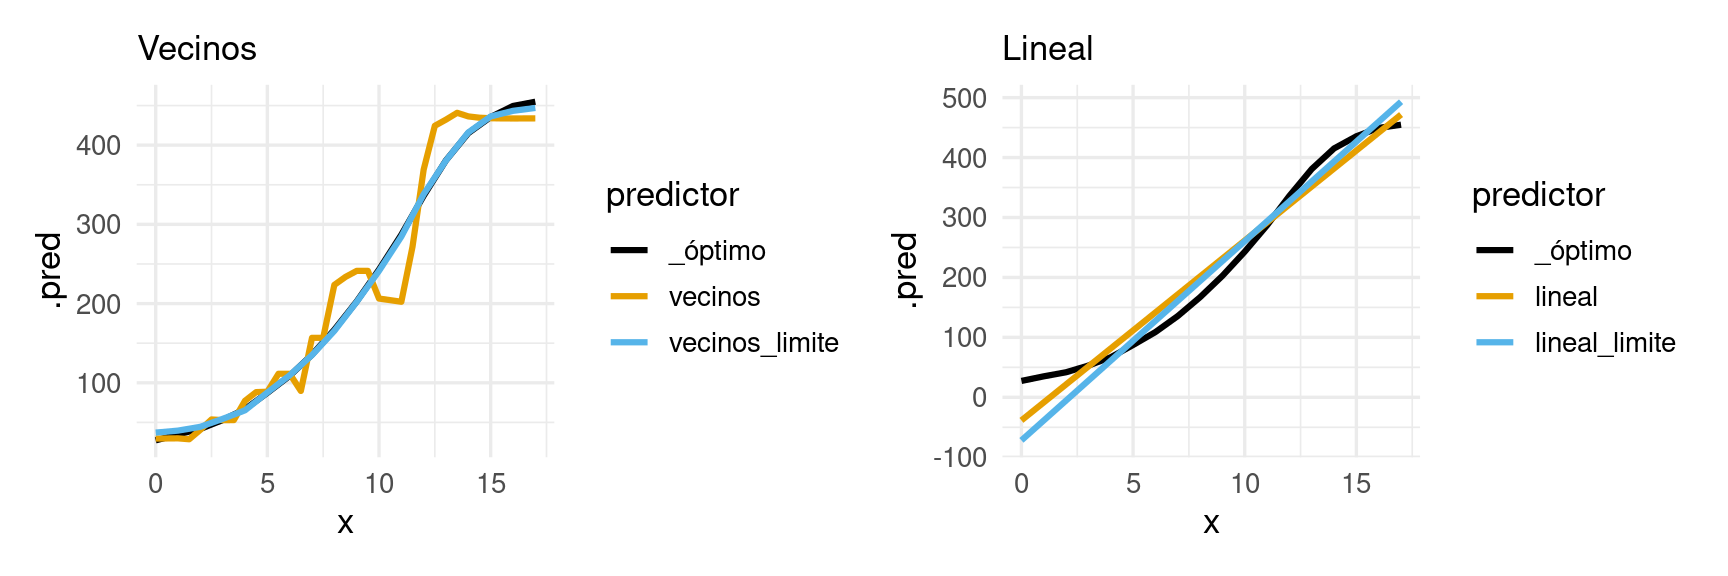
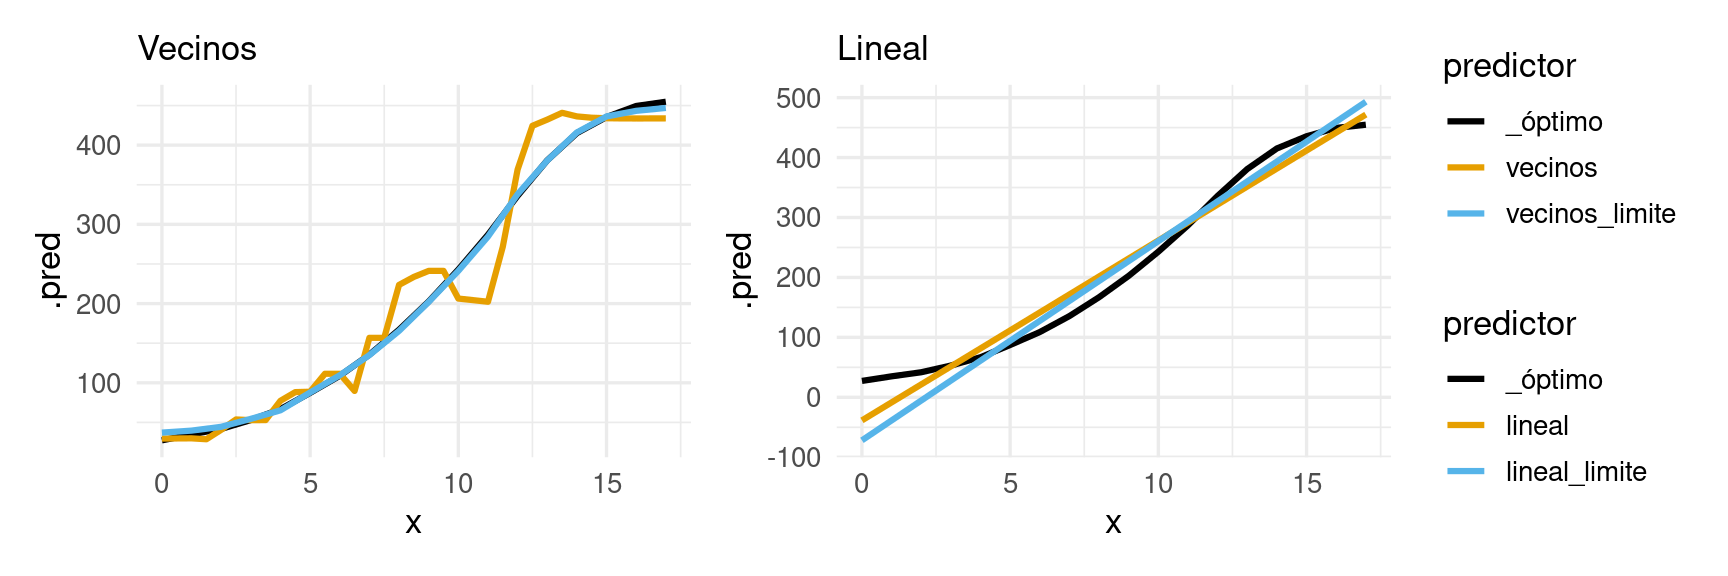
Deploying to gh-pages from @ felipegonzalez/aprendizaje-maquina-mcd-2022@fcda82e9a2af115e9a1a6d112d447e3a051d73b7 🚀

diff --git a/02-principios-supervisado.html b/02-principios-supervisado.html
@@ -2300,7 +2300,6 @@ Generalmente es una combinación de costos/beneficios del problema que tratamos,
 <p><strong>Observación</strong>: Generalmente el término variabilidad se refiere a la variación de un estimador alrededor de su valor esperado, cuando observamos sus distintas posibles estimadociones a los largo de varias muestras de entrenamiento. Podemos descomponer el segundo término de arriba como:</p>
 <p><span class="math display">\[ f_{\lim}(\mathbf{x}) - \hat{f_{\mathcal{L}}}(\mathbf{x}) = f_{\lim}(\mathbf{x}) - E(\hat{f_{\mathcal{L}}}(\mathbf{x})) + E(\hat{f_{\mathcal{L}}}(\mathbf{x})) - \hat{f_{\mathcal{L}}}(\mathbf{x})\]</span></p>
 <p>donde el valor esperado es sobre todas las muestras de entrenamiento de un tamaño fijo <span class="math inline">\(n\)</span> que podríamos obtener. El segundo término puede llamarse variabilidad, mientras que el primero es el sesgo que obtenemos al usar una muestra <span class="math inline">\(n\)</span> finita.</p>
-<p>En esta versión, una parte del sesgo puede deberse a que nuestro método no tiene capacidad suficiente para encontrar la forma correcta de <span class="math inline">\(f^*(x)\)</span>, incluso con datos completos (el primer término del sesgo), mientras que el segundo término del sesgo indica que con el tamaño de muestra <span class="math inline">\(n\)</span> que tenemos, su capacidad no se puede alcanzar.</p>
 </section>
 <section id="ejemplo-fuentes-de-error" class="level2" data-number="2.5">
 <h2 data-number="2.5" class="anchored" data-anchor-id="ejemplo-fuentes-de-error"><span class="header-section-number">2.5</span> Ejemplo: fuentes de error</h2>
@@ -2799,7 +2798,7 @@ Generalmente es una combinación de costos/beneficios del problema que tratamos,
 <span id="cb16-14"><a href="#cb16-14" aria-hidden="true" tabindex="-1"></a>            <span class="fu">filter</span>(<span class="fu">str_detect</span>(predictor, <span class="st">"lineal|_óptimo"</span>)), </span>
 <span id="cb16-15"><a href="#cb16-15" aria-hidden="true" tabindex="-1"></a>            <span class="fu">aes</span>(<span class="at">y =</span> .pred, <span class="at">colour =</span> predictor), <span class="at">size =</span> <span class="fl">1.1</span>) <span class="sc">+</span></span>
 <span id="cb16-16"><a href="#cb16-16" aria-hidden="true" tabindex="-1"></a>  <span class="fu">labs</span>(<span class="at">subtitle =</span> <span class="st">"Lineal"</span>) </span>
-<span id="cb16-17"><a href="#cb16-17" aria-hidden="true" tabindex="-1"></a>g_1 <span class="sc">+</span> g_2 </span></code><button title="Copiar al portapapeles" class="code-copy-button"><i class="bi"></i></button></pre></div>
+<span id="cb16-17"><a href="#cb16-17" aria-hidden="true" tabindex="-1"></a>g_1 <span class="sc">+</span> g_2 <span class="sc">+</span> <span class="fu">plot_layout</span>(<span class="at">guides =</span> <span class="st">'collect'</span>)</span></code><button title="Copiar al portapapeles" class="code-copy-button"><i class="bi"></i></button></pre></div>
 <div class="cell-output-display">
 <p><img src="02-principios-supervisado_files/figure-html/unnamed-chunk-17-1.png" class="img-fluid" width="864"></p>
 </div>

diff --git a/01-introduccion.html b/01-introduccion.html
@@ -328,10 +328,9 @@ code span.wa { color: #60a0b0; font-weight: bold; font-style: italic; } /* Warni
 <hr>
 <p>Por el contrario, en el <strong>enfoque de aprendizaje</strong>, comenzamos con un conjunto de datos <strong>etiquetado</strong> (por una persona, por un método costoso, etc.), y utilizamos alguna estructura general para aprender a producir la respuesta a partir de las imágenes. Por ejemplo, en este caso podríamos una red convolucional sobre los valores de los pixeles de la imagen:</p>
 <div class="cell">
-<div class="sourceCode cell-code" id="cb8"><pre class="sourceCode r code-with-copy"><code class="sourceCode r"><span id="cb8-1"><a href="#cb8-1" aria-hidden="true" tabindex="-1"></a>reticulate<span class="sc">::</span><span class="fu">use_virtualenv</span>(<span class="st">"/opt/virtualenvs/mi_env"</span>)</span>
-<span id="cb8-2"><a href="#cb8-2" aria-hidden="true" tabindex="-1"></a><span class="fu">library</span>(keras)</span>
-<span id="cb8-3"><a href="#cb8-3" aria-hidden="true" tabindex="-1"></a><span class="co"># usamos los tres canales de la imagen</span></span>
-<span id="cb8-4"><a href="#cb8-4" aria-hidden="true" tabindex="-1"></a>imagenes <span class="ot">&lt;-</span> <span class="fu">map</span>(path_full_imgs, <span class="sc">~</span> <span class="fu">image_load</span>(.x, <span class="at">target_size =</span> <span class="fu">c</span>(<span class="dv">64</span>, <span class="dv">64</span>)))</span></code><button title="Copiar al portapapeles" class="code-copy-button"><i class="bi"></i></button></pre></div>
+<div class="sourceCode cell-code" id="cb8"><pre class="sourceCode r code-with-copy"><code class="sourceCode r"><span id="cb8-1"><a href="#cb8-1" aria-hidden="true" tabindex="-1"></a><span class="fu">library</span>(keras)</span>
+<span id="cb8-2"><a href="#cb8-2" aria-hidden="true" tabindex="-1"></a><span class="co"># usamos los tres canales de la imagen</span></span>
+<span id="cb8-3"><a href="#cb8-3" aria-hidden="true" tabindex="-1"></a>imagenes <span class="ot">&lt;-</span> <span class="fu">map</span>(path_full_imgs, <span class="sc">~</span> <span class="fu">image_load</span>(.x, <span class="at">target_size =</span> <span class="fu">c</span>(<span class="dv">64</span>, <span class="dv">64</span>)))</span></code><button title="Copiar al portapapeles" class="code-copy-button"><i class="bi"></i></button></pre></div>
 <div class="cell-output cell-output-stderr">
 <pre><code>Loaded Tensorflow version 2.6.0</code></pre>
 </div>
